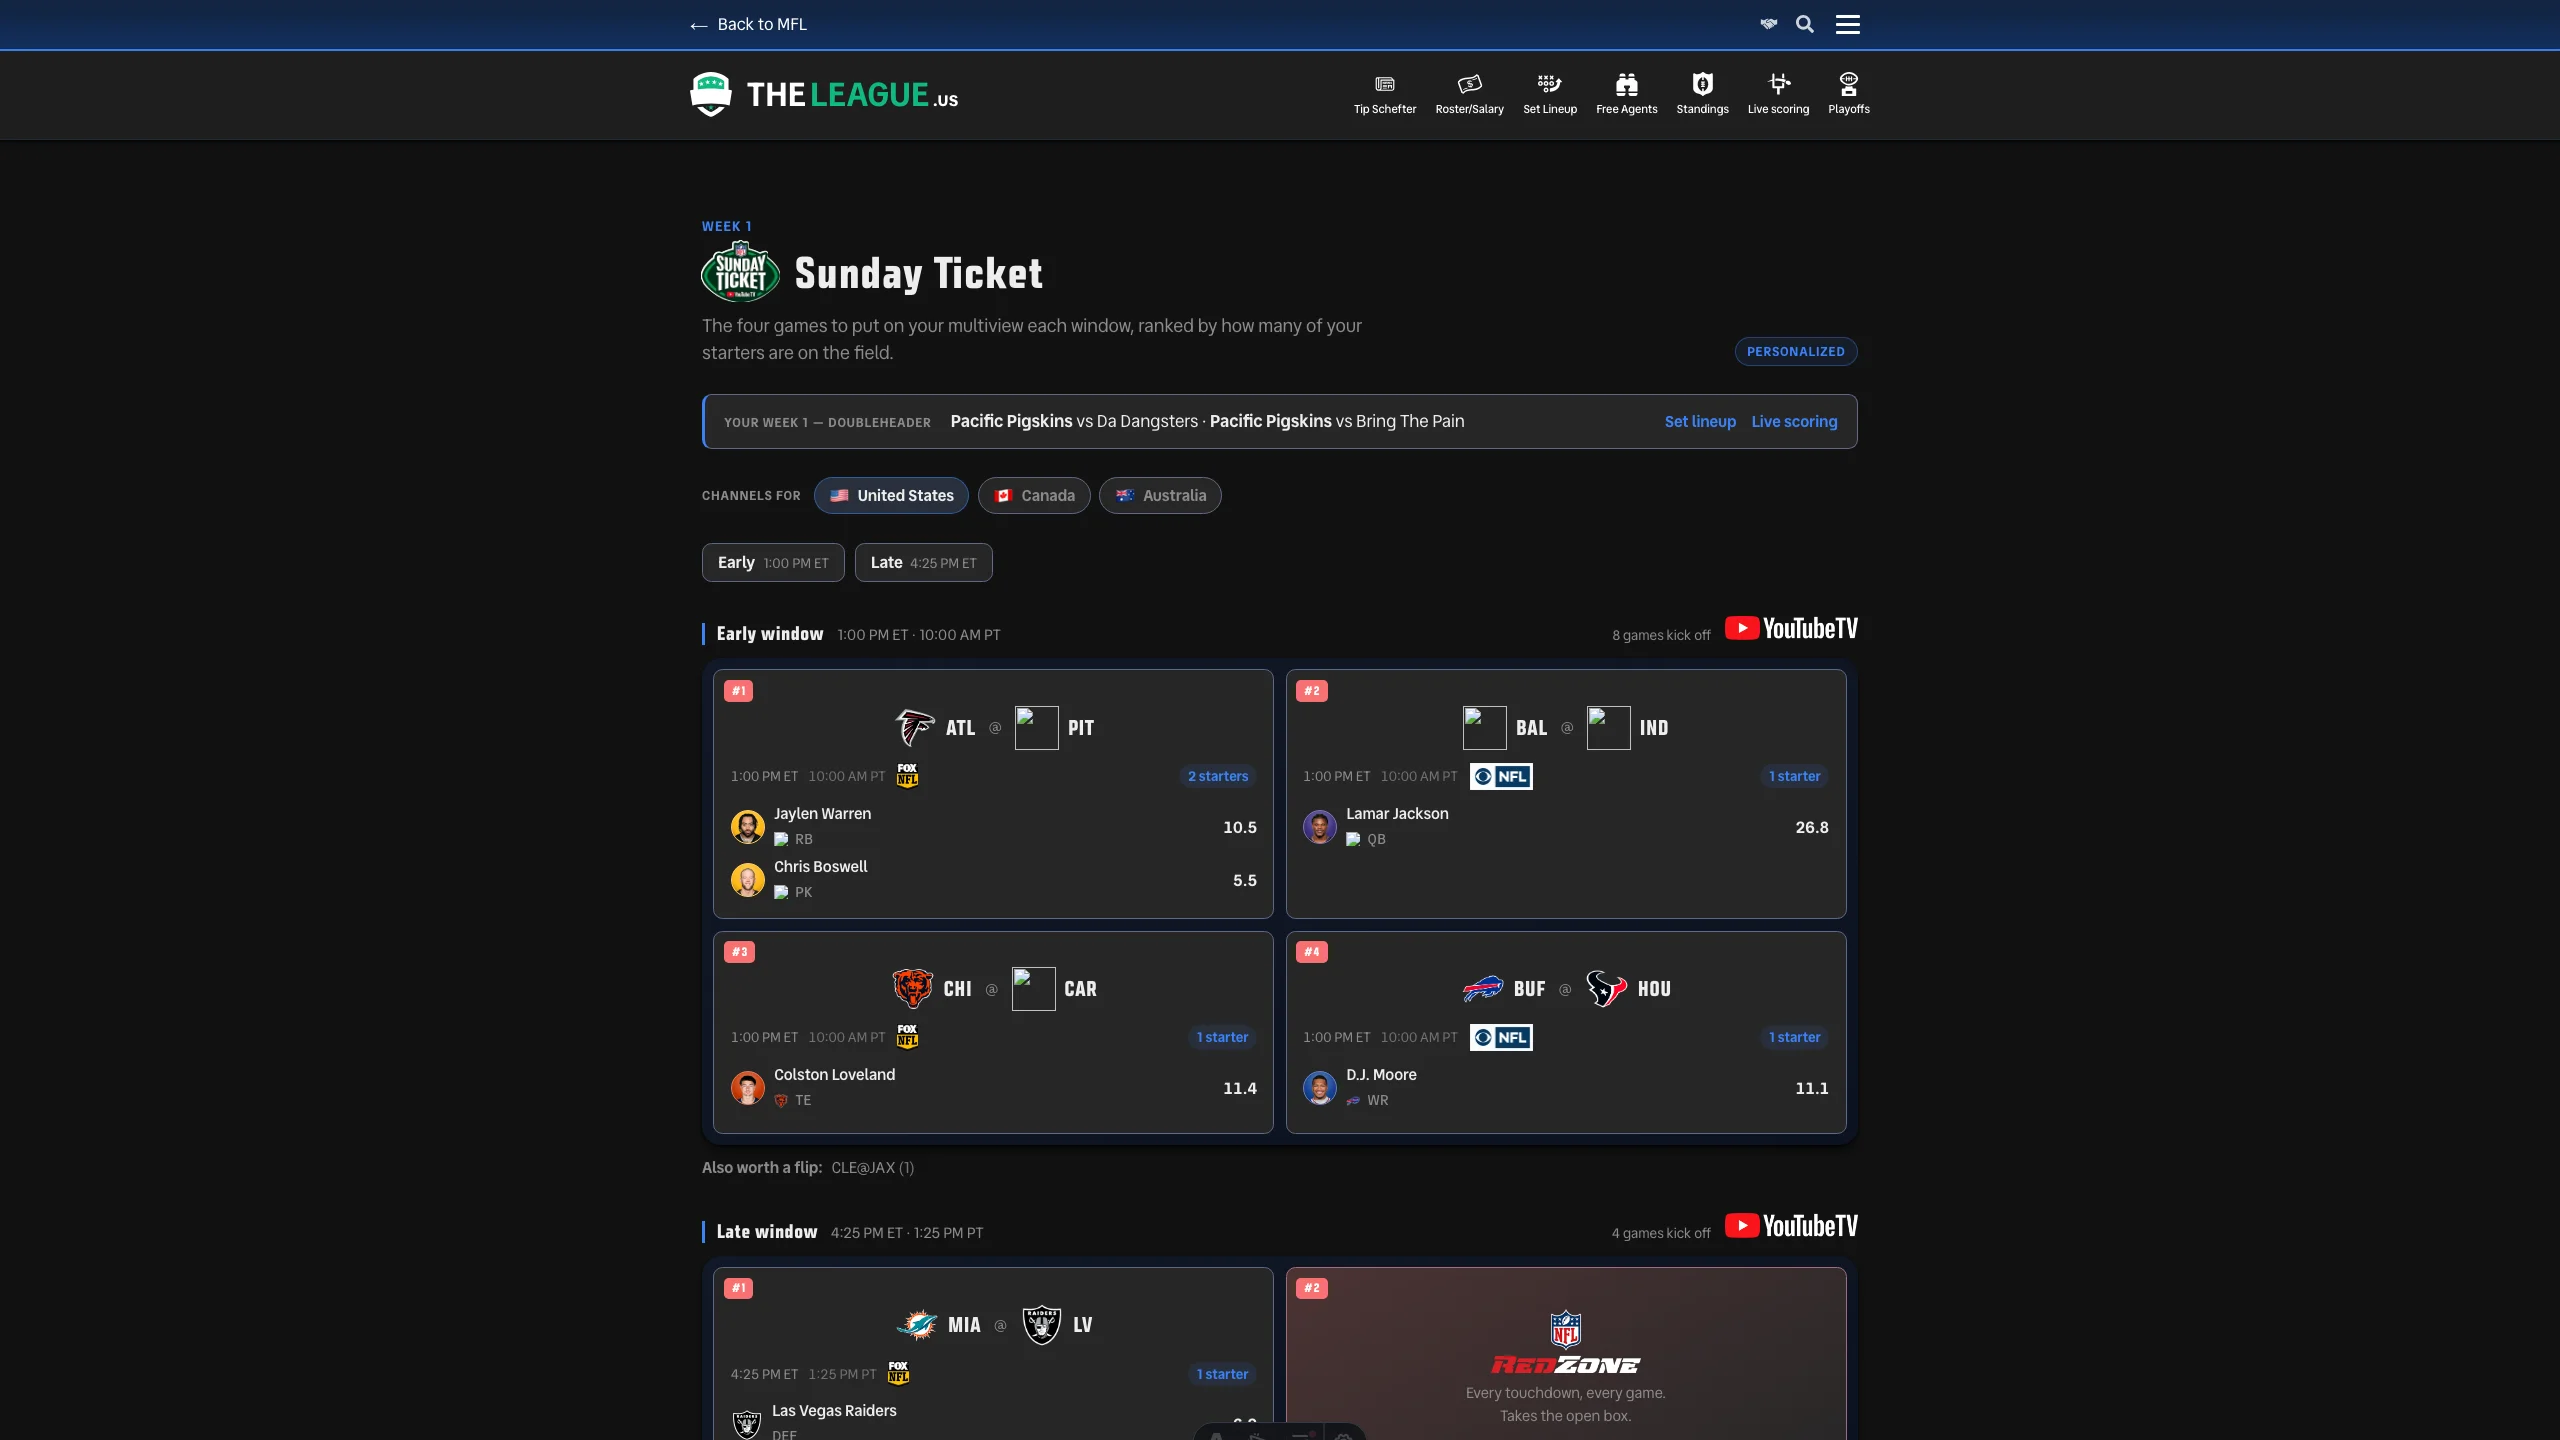
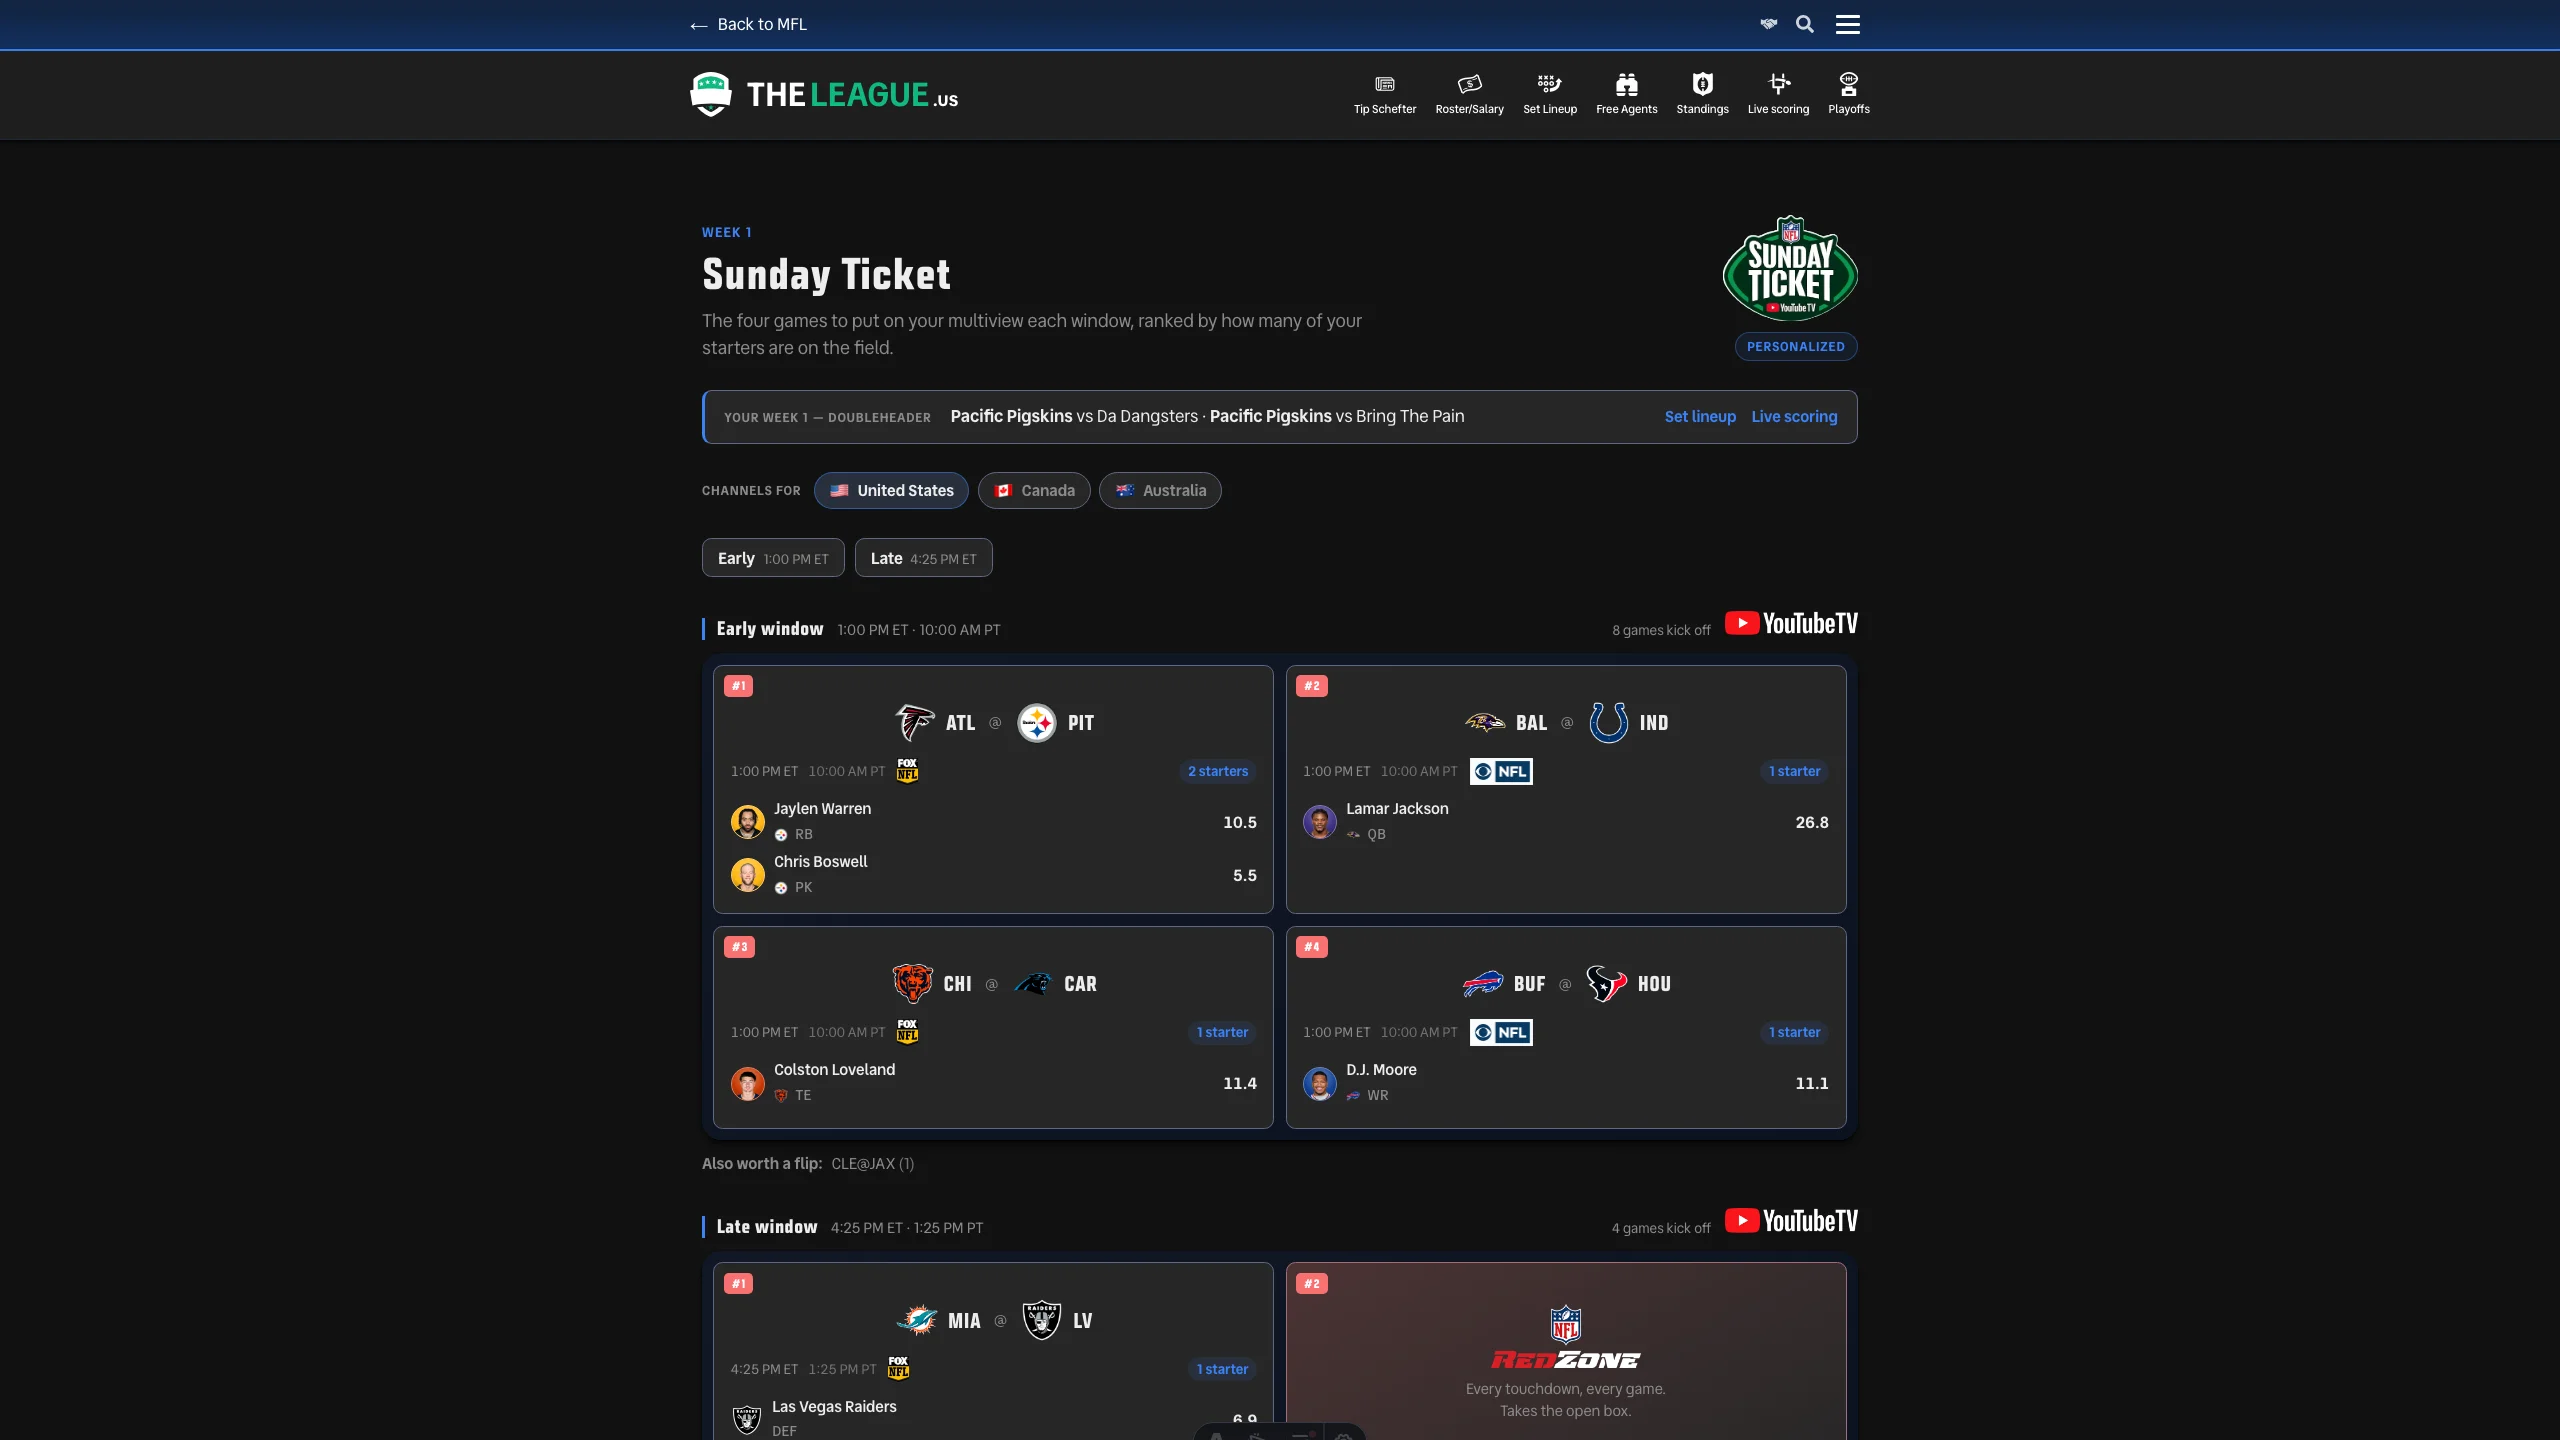
Sunday Ticket: the official mark moves to the header's right side
The headline row was crowded with the mark beside the title and the week
eyebrow above it; the right side of the header was empty. The mark now sits
there, larger, above the Personalized badge.

diff --git a/src/styles/sunday-ticket.css b/src/styles/sunday-ticket.css
@@ -35,17 +35,17 @@
 }
 .st-page__title {
   margin: 0;
-  display: flex;
-  align-items: center;
-  gap: 0.75rem;
   font-family: var(--font-display);
   font-size: clamp(1.8rem, 4vw, 2.6rem);
   line-height: 1;
   color: var(--page-text);
 }
-/* The official mark sits with the headline; in dark mode it takes the crest
-   treatment from the tv-logo manifest like every other mark on the page. */
-.st-page__mark { height: 3.2rem; width: auto; object-fit: contain; flex: none; }
+/* The official mark on the header's open right side, above the badges; in
+   dark mode it takes the crest treatment from the tv-logo manifest like every
+   other mark on the page. */
+.st-page__side { display: flex; flex-direction: column; align-items: flex-end; gap: 0.6rem; }
+.st-page__mark { height: 5.5rem; width: auto; object-fit: contain; }
+@media (max-width: 560px) { .st-page__mark { height: 4rem; } }
 .st-page__lede {
   margin: 0.5rem 0 0;
   max-width: 60ch;
